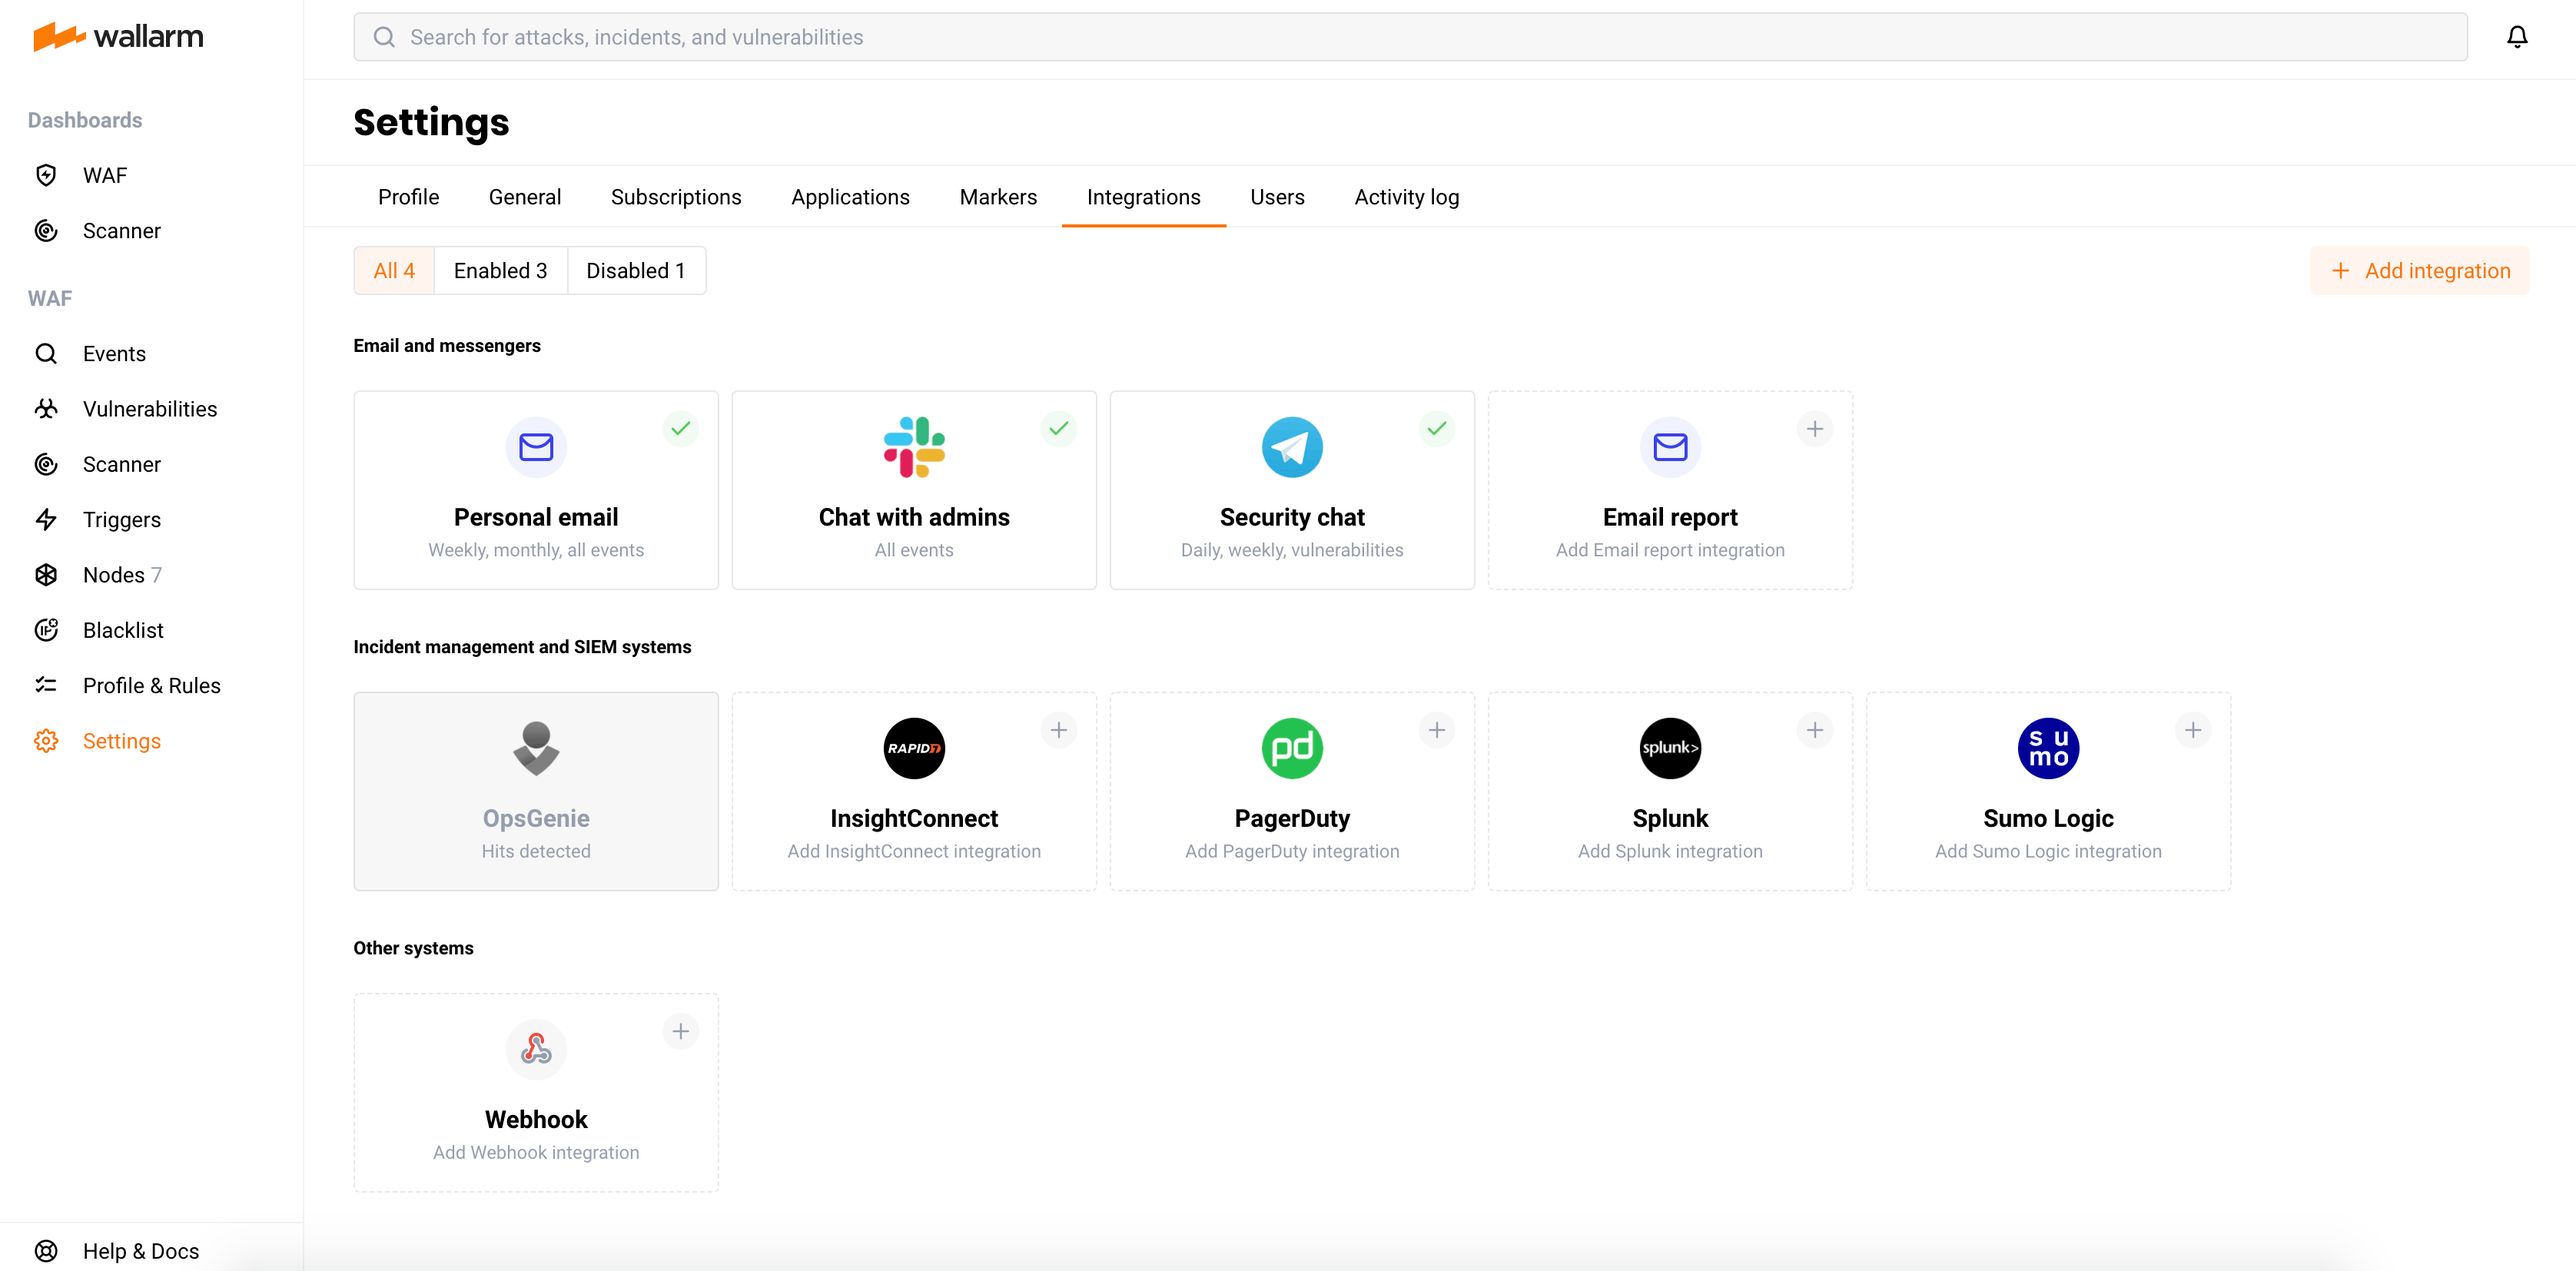
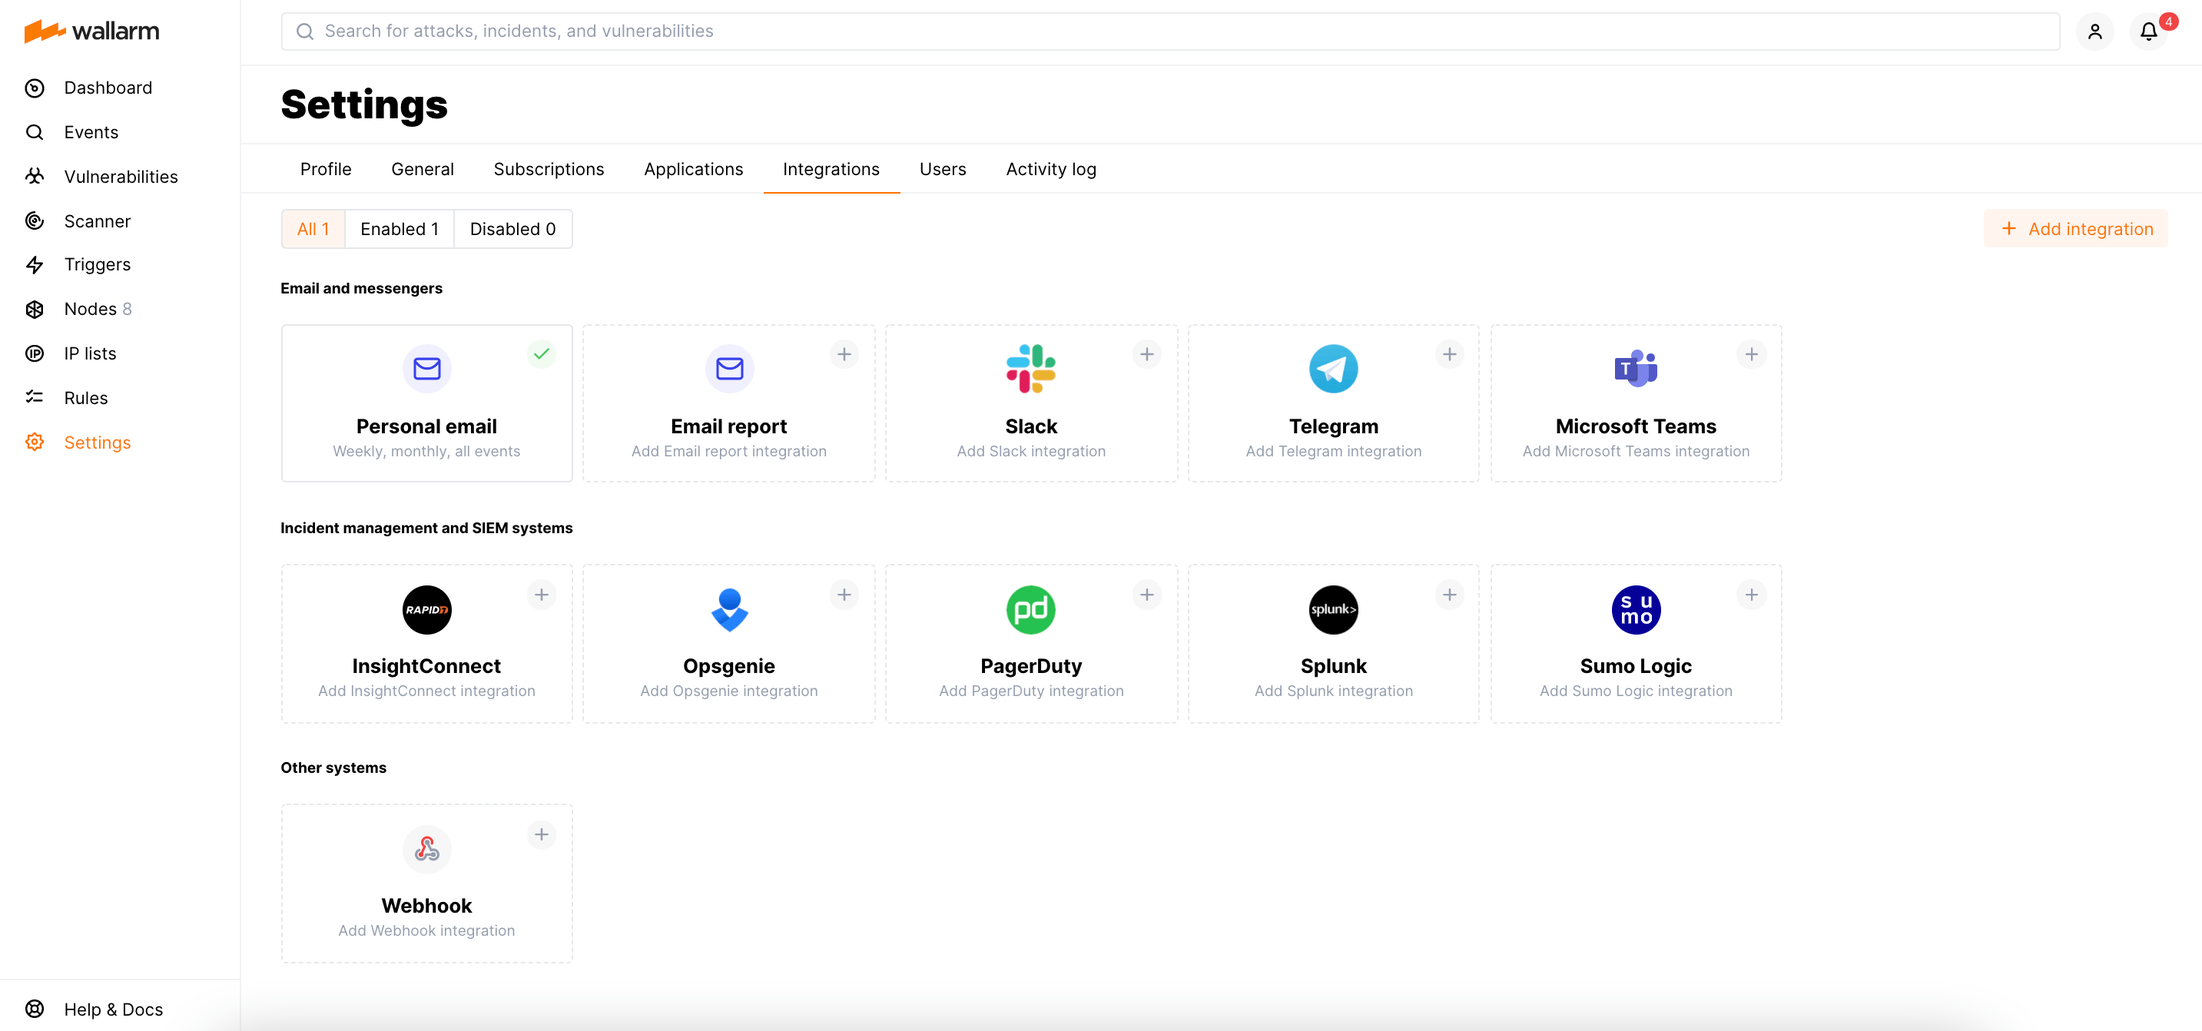
DOCS-1394 add the Microsoft Teams integration docs

diff --git a/docs/latest/user-guides/settings/integrations/microsoft-teams.md b/docs/latest/user-guides/settings/integrations/microsoft-teams.md
@@ -1,0 +1,48 @@
+# Microsoft Teams
+
+You can set up Wallarm to send notifications to your Microsoft Teams channel when the following events are triggered:
+
+--8<-- "../include/integrations/events-for-integrations.md"
+
+## Setting up integration
+
+1. Open the **Settings** → **Integrations** tab.
+2. Click the **Microsoft Teams** block or click the **Add integration** button and choose **Microsoft Teams**.
+3. Enter an integration name.
+4. Open the settings of the Microsoft Teams channel where you want to post notifications and configure a new Webhook by using the [instructions](https://docs.microsoft.com/en-us/microsoftteams/platform/webhooks-and-connectors/how-to/add-incoming-webhook).
+5. Copy the provided Webhook URL and paste the value to the **Webhook URL** field in Wallarm Console.
+6. Choose event types to trigger notifications. If the events are not chosen, then notifications will not be sent.
+7. [Test the integration](#testing-integration) and ensure the settings are correct.
+8. Click **Add integration**.
+
+      ![!MS Teams integration](../../../images/user-guides/settings/integrations/add-ms-teams-integration.png)
+
+## Testing integration
+
+--8<-- "../include/integrations/test-integration.md"
+
+Test Microsoft Teams message from the user **wallarm**:
+
+```
+[Test message] [Test partner] Network perimeter has changed
+
+Notification type: new_scope_object_ips
+
+New IP addresses were discovered in the network perimeter:
+8.8.8.8
+
+Client: TestCompany
+Cloud: EU
+```
+
+## Updating integration
+
+--8<-- "../include/integrations/update-integration.md"
+
+## Disabling integration
+
+--8<-- "../include/integrations/disable-integration.md"
+
+## Deleting integration
+
+--8<-- "../include/integrations/remove-integration.md"

diff --git a/docs/latest/user-guides/settings/integrations/integrations-intro.md b/docs/latest/user-guides/settings/integrations/integrations-intro.md
@@ -5,6 +5,7 @@
 [email-notifications]:          ./email.md
 [slack-notifications]:          ./slack.md
 [telegram-notifications]:       ./telegram.md
+[ms-teams-notifications]:       ./microsoft-teams.md
 [opsgenie-notifications]:       ./opsgenie.md
 [insightconnect-notifications]: ./insightconnect.md
 [pagerduty-notifications]:      ./pagerduty.md
@@ -35,6 +36,7 @@ The systems available for integration are grouped in the following blocks: **Ema
 * [Email report][email-notifications]
 * [Slack][slack-notifications]
 * [Telegram][telegram-notifications]
+* [Microsoft Teams][ms-teams-notifications]
 
 ### Incident management and SIEM systems
 

diff --git a/docs/2.18/user-guides/settings/integrations/microsoft-teams.md b/docs/2.18/user-guides/settings/integrations/microsoft-teams.md
@@ -1,0 +1,1 @@
+--8<-- "latest/user-guides/settings/integrations/microsoft-teams.md"

diff --git a/docs/3.0/user-guides/settings/integrations/microsoft-teams.md b/docs/3.0/user-guides/settings/integrations/microsoft-teams.md
@@ -1,0 +1,1 @@
+--8<-- "latest/user-guides/settings/integrations/microsoft-teams.md"

diff --git a/docs/3.2/user-guides/settings/integrations/microsoft-teams.md b/docs/3.2/user-guides/settings/integrations/microsoft-teams.md
@@ -1,0 +1,1 @@
+--8<-- "latest/user-guides/settings/integrations/microsoft-teams.md"

diff --git a/docs/3.4/user-guides/settings/integrations/microsoft-teams.md b/docs/3.4/user-guides/settings/integrations/microsoft-teams.md
@@ -1,0 +1,1 @@
+--8<-- "latest/user-guides/settings/integrations/microsoft-teams.md"
